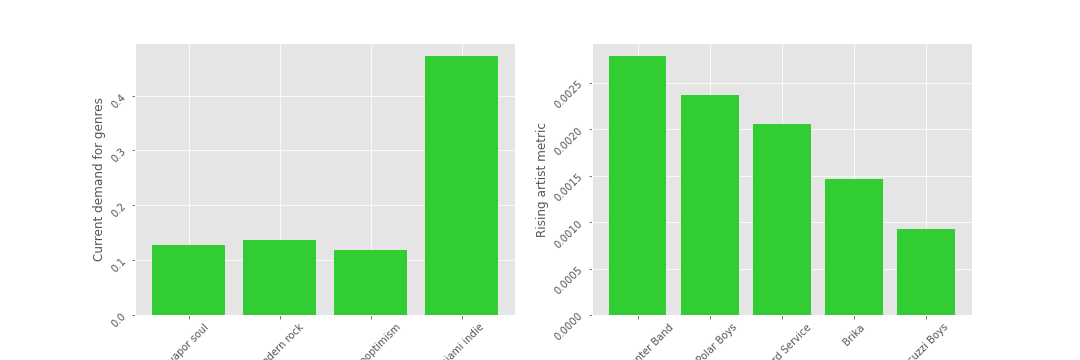
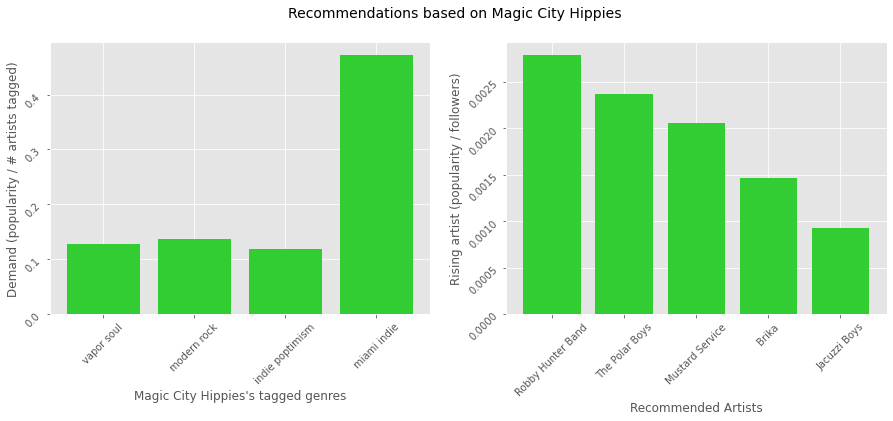
figure cropping issues

diff --git a/README.md b/README.md
@@ -1,11 +1,10 @@
-# spotify
+# Spotify Genre Analysis
 Spotify is the leading music streaming service in the world. Using [this dataset](https://www.kaggle.com/yamaerenay/spotify-dataset-19212020-160k-tracks), 1.1 million rows of artist data (including their name, number of followers, genre tags, and popoularity) along with 586,000 rows of track data (including 11 numerical features describing the acoustic signature, along with categorical data such as the affiliated artists and release date). The data was collected in April 2021, but track release dates span to 1922.
 
 The primary goal is to orient this data around musical genre, and determine how genres change over time. First, we'll evaluate the current state of Spotify genres (from April 2021 when the data was collected). Then, by linking track release dates to artist genre tags, we can examine how genres have changed over time -- both in terms of their relative popularity and their acoustic signatures. 
 
 # EDA
 ### Modern genre popularity
-
 This analysis is heavily reliant on Spotify's "popularity" metric for artists, which is primarily based on the total number of plays and how recent they are -- so there is a temporal bias for plays in April 2021. Popularity ranges from 0 to 100, and scales logarithmically with artist follower counts.
 
 Artists are, on average, highly unpopular -- 21% of all artists are at 0 popularity!
